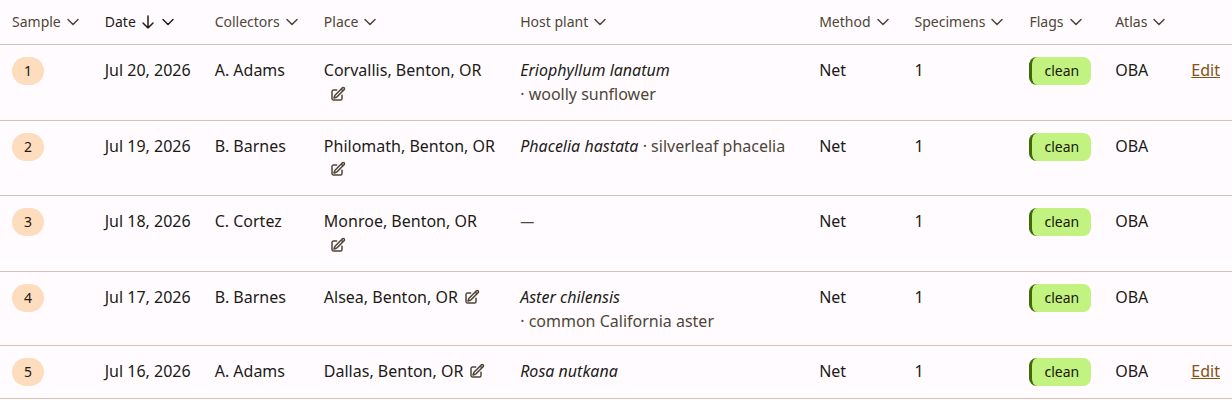
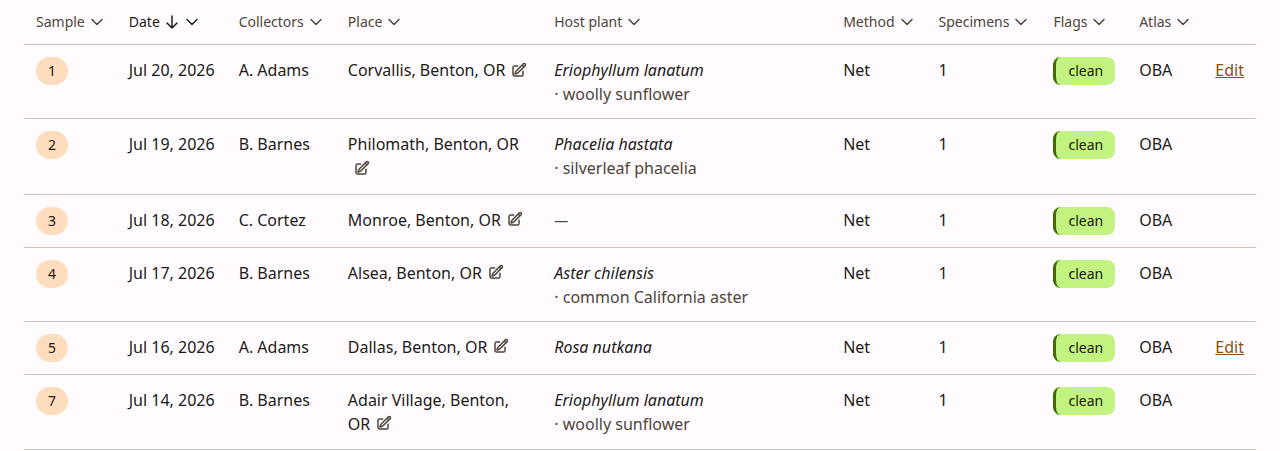
Tighten the host listings after review (beeline-rfkj.4)
The empty-cell guards now match any empty cell but the actions one, so an empty host cell fails them. The host column's minimum width applies from 64rem up, is 11rem, and the narrower padding comes from a class on the table (set by DataTable) instead of a :has selector. At 1280px and at 1265px the specimens table now fits its wrapper exactly; before, it spilled 5px (and 20px at 1265px) into the gutter. Screenshots retaken, with a phone one. The no-current-name fixture gives its taxa common names, and the capitals test has a term only the common name satisfies. The bench comment and README, and the hostCommonName text, are corrected.

diff --git a/test/listings.test.ts b/test/listings.test.ts
@@ -623,7 +623,7 @@ describe("the host plant column", () => {
     // A bee off no flower: the dash, since the absence repeats down the column.
     const all = await get(app, "/specimens?scope=all");
     expect(all).toContain("WABA0001");
-    expect(all).not.toMatch(/<td><\/td>/);
+    expect(all).not.toMatch(/<td(?! class="actions")[^>]*><\/td>/);
   });
 });
 
@@ -773,6 +773,8 @@ describe("floral hosts by what iNaturalist calls them (beeline-rfkj.4)", () => {
     expect(await find("showy alpha")).toEqual(["B-3"]);
     expect(await find("SHOWY")).toEqual(["B-3"]);
     expect(await find("wy alp")).toEqual(["B-3"]);
+    // Neither the observed name ("Alpha showy") nor taxon 7's scientific name contains this, only the common name does.
+    expect(await find("OWY AL")).toEqual(["B-3"]);
   });
 
   describe("a host with no current name", () => {
@@ -780,8 +782,9 @@ describe("floral hosts by what iNaturalist calls them (beeline-rfkj.4)", () => {
     async function noNameApp() {
       const fx = await hostApp();
       const { conn } = fx;
-      await taxon(conn, { id: 20, name: "Pendingus", rank: "species", active: false, parent: 110, replacedBy: [9999] });
-      await taxon(conn, { id: 21, name: "Retiredus", rank: "species", active: false, parent: 110 });
+      // Each has an Oregon common name of its own, which must not leak into a host that has no current taxon.
+      await taxon(conn, { id: 20, name: "Pendingus", rank: "species", active: false, parent: 110, replacedBy: [9999], oregon: "leaky pending" });
+      await taxon(conn, { id: 21, name: "Retiredus", rank: "species", active: false, parent: 110, oregon: "leaky retired" });
       await refreshPlantCommonNames(conn);
       const make = async (n: string, id: number, name: string) => {
         const sample = await insertCleanSample(conn, { sample_number: `'${n}'`, host_inat_taxon_id: String(id), host_name_as_observed: `'${name}'`, host_rank: "'species'" });
@@ -800,6 +803,7 @@ describe("floral hosts by what iNaturalist calls them (beeline-rfkj.4)", () => {
       for (const listing of ["samples", "specimens"]) {
         const body = await get(app, `/${listing}?scope=all&host=obs`);
         expect(dnumbers(body)).toEqual(["D-1", "D-2", "D-3"]);
+        expect(body).not.toContain("leaky");
         for (const name of ["Pending", "Retired", "Uncached"]) {
           expect(body).toMatch(new RegExp(`<i>${name}</i> <i>obs</i></span></td>`));
         }
@@ -814,6 +818,7 @@ describe("floral hosts by what iNaturalist calls them (beeline-rfkj.4)", () => {
         for (const [n, id] of [["D-1", "20"], ["D-2", "21"], ["D-3", "888"]] as const) {
           const r = csv.find((l) => l[head.indexOf(key)] === n)!;
           expect(["hostInatTaxonId", "hostCurrentName", "hostFamily", "hostCommonName"].map((h) => r[head.indexOf(h)])).toEqual([id, "", "", ""]);
+          expect(r.join(",")).not.toContain("leaky");
           expect(r[head.indexOf("associatedTaxa")]).toContain("obs");
         }
       }
@@ -829,6 +834,7 @@ describe("floral hosts by what iNaturalist calls them (beeline-rfkj.4)", () => {
         // The taxon's own cached name is not a name it answers to once it has no current taxon.
         expect(await find("pendingus")).toEqual([]);
         expect(await find("retiredus")).toEqual([]);
+        expect(await find("leaky")).toEqual([]);
       }
     });
   });
@@ -924,7 +930,8 @@ describe("missing values", () => {
   // Absence was drawn three ways — words, a bare em dash, an empty cell — and
   // an empty cell cannot be told from a value that failed to load (Nora,
   // 2026-09-17). Every value cell now draws something, through one component.
-  const EMPTY_VALUE_CELL = /<td><\/td>|<td class="nowrap"><\/td>/;
+  // Any empty cell but the actions one, which holds a button or nothing and is not a value.
+  const EMPTY_VALUE_CELL = /<td(?! class="actions")[^>]*><\/td>/;
 
   it("never leaves a value cell empty, on either listing", async () => {
     const { app, conn } = await listingApp("staffer");
@@ -933,7 +940,7 @@ describe("missing values", () => {
                     WHERE sample_number = 'C-1'`);
     for (const path of ["/samples?scope=all", "/specimens?scope=all"]) {
       const body = await get(app, path);
-      expect(body, path).not.toMatch(EMPTY_VALUE_CELL);
+      expect(body.match(EMPTY_VALUE_CELL)?.[0], path).toBeUndefined();
     }
   });
 

diff --git a/src/app/api-description.ts b/src/app/api-description.ts
@@ -69,7 +69,7 @@ const COLUMN_MEANING: Record<(typeof SAMPLE_CSV_HEADER)[number] | (typeof SPECIM
   hostInatTaxonId: "The iNaturalist taxon id of the floral host, as the observation gave it; empty where the host has no id.",
   hostCurrentName: "What iNaturalist calls the floral host now, which differs from associatedTaxa where iNaturalist has since renamed or replaced it; empty where it has no single current name (split, retired) or Beeline has not yet read the taxon.",
   hostFamily: "The family of the floral host as iNaturalist now has it; empty where there is none.",
-  hostCommonName: "The common name of the host as iNaturalist now has it (the current taxon, which is the stored one unless iNaturalist has replaced it). It is the plant list's name for that taxon where the list has one, else iNaturalist's name for Oregon, else the name of the nearest coarser entry in the list. Empty where there is none, and for a split or retired host.",
+  hostCommonName: "The common name of the host as iNaturalist now has it (the current taxon, which is the stored one unless iNaturalist has replaced it). It is the plant list's name for that taxon where the list has one, else iNaturalist's name for Oregon, else the name of the nearest coarser entry in the list. Empty where there is none, and, as for hostCurrentName, for a split, retired, pending or absent host and one Beeline has not yet read.",
   atlas: "The code of the atlas the sample was collected in; empty outside every atlas.",
   locationSource: "Where the coordinates came from. Empty where the location is withheld.",
   geoprivacy: "The observer's iNaturalist geoprivacy setting for the observation: obscured or private. Empty when open.",

diff --git a/src/app/static/components.css b/src/app/static/components.css
@@ -603,11 +603,14 @@ th details.col-menu > .menu-panel {
    "Aster / chilensis / · common / California / aster" in a column the other
    columns had squeezed). In the auto table layout a cell's min-width is the
    column's. The specimens listing has ten columns and no room at a laptop's
-   1280px for a wider one, so the two listings' cells (the tables that have a
-   host cell) take 0.75rem each side instead of 1rem, which is what pays for it
-   without a sideways scroll. */
-td.host-cell { min-width: 13rem; }
-table:has(td.host-cell) :is(th, td) { padding-inline: var(--space-3); }
+   1280px for a wider one, so a table with a host column (`.has-host`, set by
+   DataTable) takes 0.75rem of padding each side instead of 1rem, which pays for
+   it without a sideways scroll. Only from 64rem up: on a phone the table
+   scrolls sideways anyway and a wider column would only lengthen that. */
+@media (min-width: 64rem) {
+  td.host-cell { min-width: 11rem; }
+  table.has-host :is(th, td) { padding-inline: var(--space-3); }
+}
 
 /* Glossary terms link to their definition on first use (/design/voice). */
 .term {

diff --git a/bench/pages.ts b/bench/pages.ts
@@ -119,8 +119,9 @@ interface CaseResult extends Case, Summary {
 const { positional, flags } = args(process.argv.slice(2));
 const source = positional[0] ?? "beeline.duckdb";
 const n = Number(flags.n ?? 15);
-// --only=<regex>: just the cases whose "who name" matches, for a quick comparison of a few pages. It is also the
-// only way to run the whole-corpus downloads and the sample-edit write, which a plain run leaves out.
+// --only=<regex>: just the cases whose "who name" matches, for a quick comparison of a few pages. It matches by
+// pattern, so `--only=all` pulls the whole-corpus downloads in too. A plain run leaves those downloads out and runs
+// the sample-edit write; with --only, the write runs only if the pattern matches it.
 const only = typeof flags.only === "string" ? new RegExp(flags.only) : undefined;
 
 const bench = await openBench(source);

diff --git a/src/app/views/components/table.tsx b/src/app/views/components/table.tsx
@@ -33,15 +33,18 @@ const isSpec = (column: Child | TableColumn): column is TableColumn =>
 export function DataTable({
   columns,
   children,
+  hostColumn = false,
 }: {
   /** Heading cells. A column with no heading (an actions column) passes "". */
   columns: ReadonlyArray<Child | TableColumn>;
   /** The `<tr>` rows. */
   children: Child;
+  /** The table has a host-plant column, which gets a minimum width and so narrower cell padding (components.css, `.has-host`). */
+  hostColumn?: boolean;
 }) {
   return (
     <div class="table-scroll">
-      <table>
+      <table class={hostColumn ? "has-host" : undefined}>
         <thead>
           <tr>
             {columns.map((column) => {

diff --git a/src/app/views/listings.tsx b/src/app/views/listings.tsx
@@ -659,6 +659,7 @@ export function SampleListing(props: ListingProps<SampleRow> & { mayEnterTrapSam
       ) : (
         <>
           <DataTable
+            hostColumn
             columns={[
               column({ ...col, label: copy.colSample, sort: "number", kind: "number" }),
               dateColumn({ ...col, label: copy.colDate }),
@@ -978,6 +979,7 @@ export function SpecimenListing(
       ) : (
         <>
           <DataTable
+            hostColumn
             columns={[
               ...(marking ? [tickColumn] : []),
               // The number is what the label carries, so whether it is on

diff --git a/bench/README.md b/bench/README.md
@@ -2,7 +2,7 @@
 
 Two questions, asked of the real app against a copy of a real store, so that a change to the engine, a query, or the machine can be judged against a number rather than a feeling.
 
-- **`pnpm bench:pages [store]`** — how long each page takes, one request at a time: the pages people open, as the store's most prolific collector (the worst case for `mine`) and as staff (every listing is the whole corpus), plus the one write a volunteer makes, saving a sample edit. `--compare=<result.json>` adds a column against an earlier run, and `--only=<regex>` runs just the cases whose "who and name" match it (the first column and the page name, such as `staff samples, all`). The two whole-corpus downloads (`staff samples.csv, all` and `staff specimens.csv, all`, tens of seconds each) run only when `--only` names them, for example `--only='csv, all' --n=3`, since each would add minutes to a plain run. With `--only`, the sample-edit write runs only if the pattern matches `volunteer save a sample edit`.
+- **`pnpm bench:pages [store]`** — how long each page takes, one request at a time: the pages people open, as the store's most prolific collector (the worst case for `mine`) and as staff (every listing is the whole corpus), plus the one write a volunteer makes, saving a sample edit. `--compare=<result.json>` adds a column against an earlier run, and `--only=<regex>` runs just the cases whose "who and name" match it (the first column and the page name, such as `staff samples, all`). The two whole-corpus downloads (`staff samples.csv, all` and `staff specimens.csv, all`, tens of seconds each) run only when `--only` matches them, and it matches by pattern, so `--only=all` or `--only=samples` pulls a full download in as well as the pages. To run just the downloads use, for example `--only='csv, all' --n=3`, since each would add minutes to a plain run. With `--only`, the sample-edit write runs only if the pattern matches `volunteer save a sample edit`.
 - **`pnpm bench:contention [store]`** — what happens when things overlap. Each phase adds one actor to the one before — readers, readers on one session, a collector saving edits, the nightly promotion looping, and a synthetic writer on rows promotion rewrites — and reports latency beside every failure, with conflicts counted apart. DuckDB has no row locks: readers never wait, and the second of two writers to one row fails at once rather than queueing, so "contention" here is two different things, shared CPU and conflict errors, and the phases keep them apart.
 
 Both drive the app through `app.request` — every route, the session gate, SSR — with real sessions behind the real resolver, because the resolver writes on every request and a benchmark that skipped it would measure a read-only app that does not exist. What is left out is the network.
